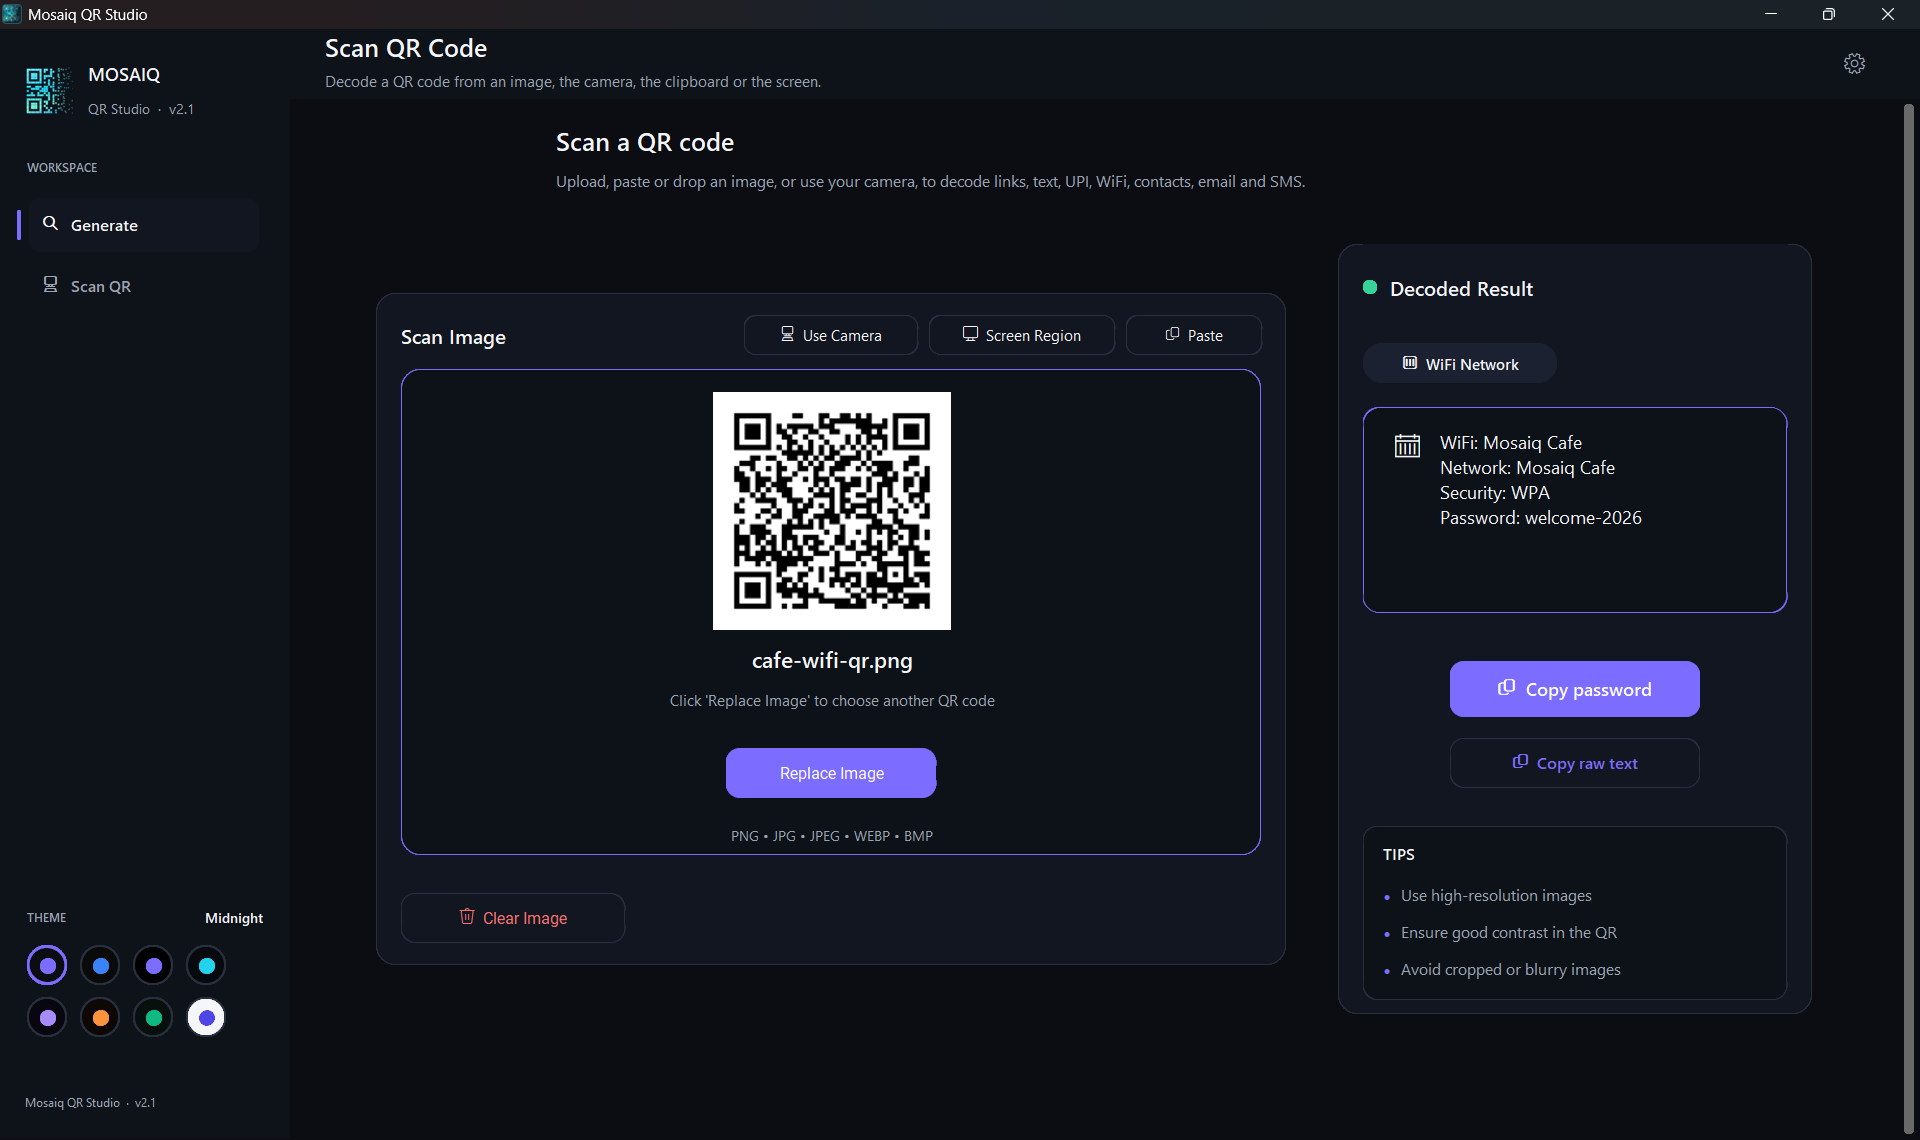
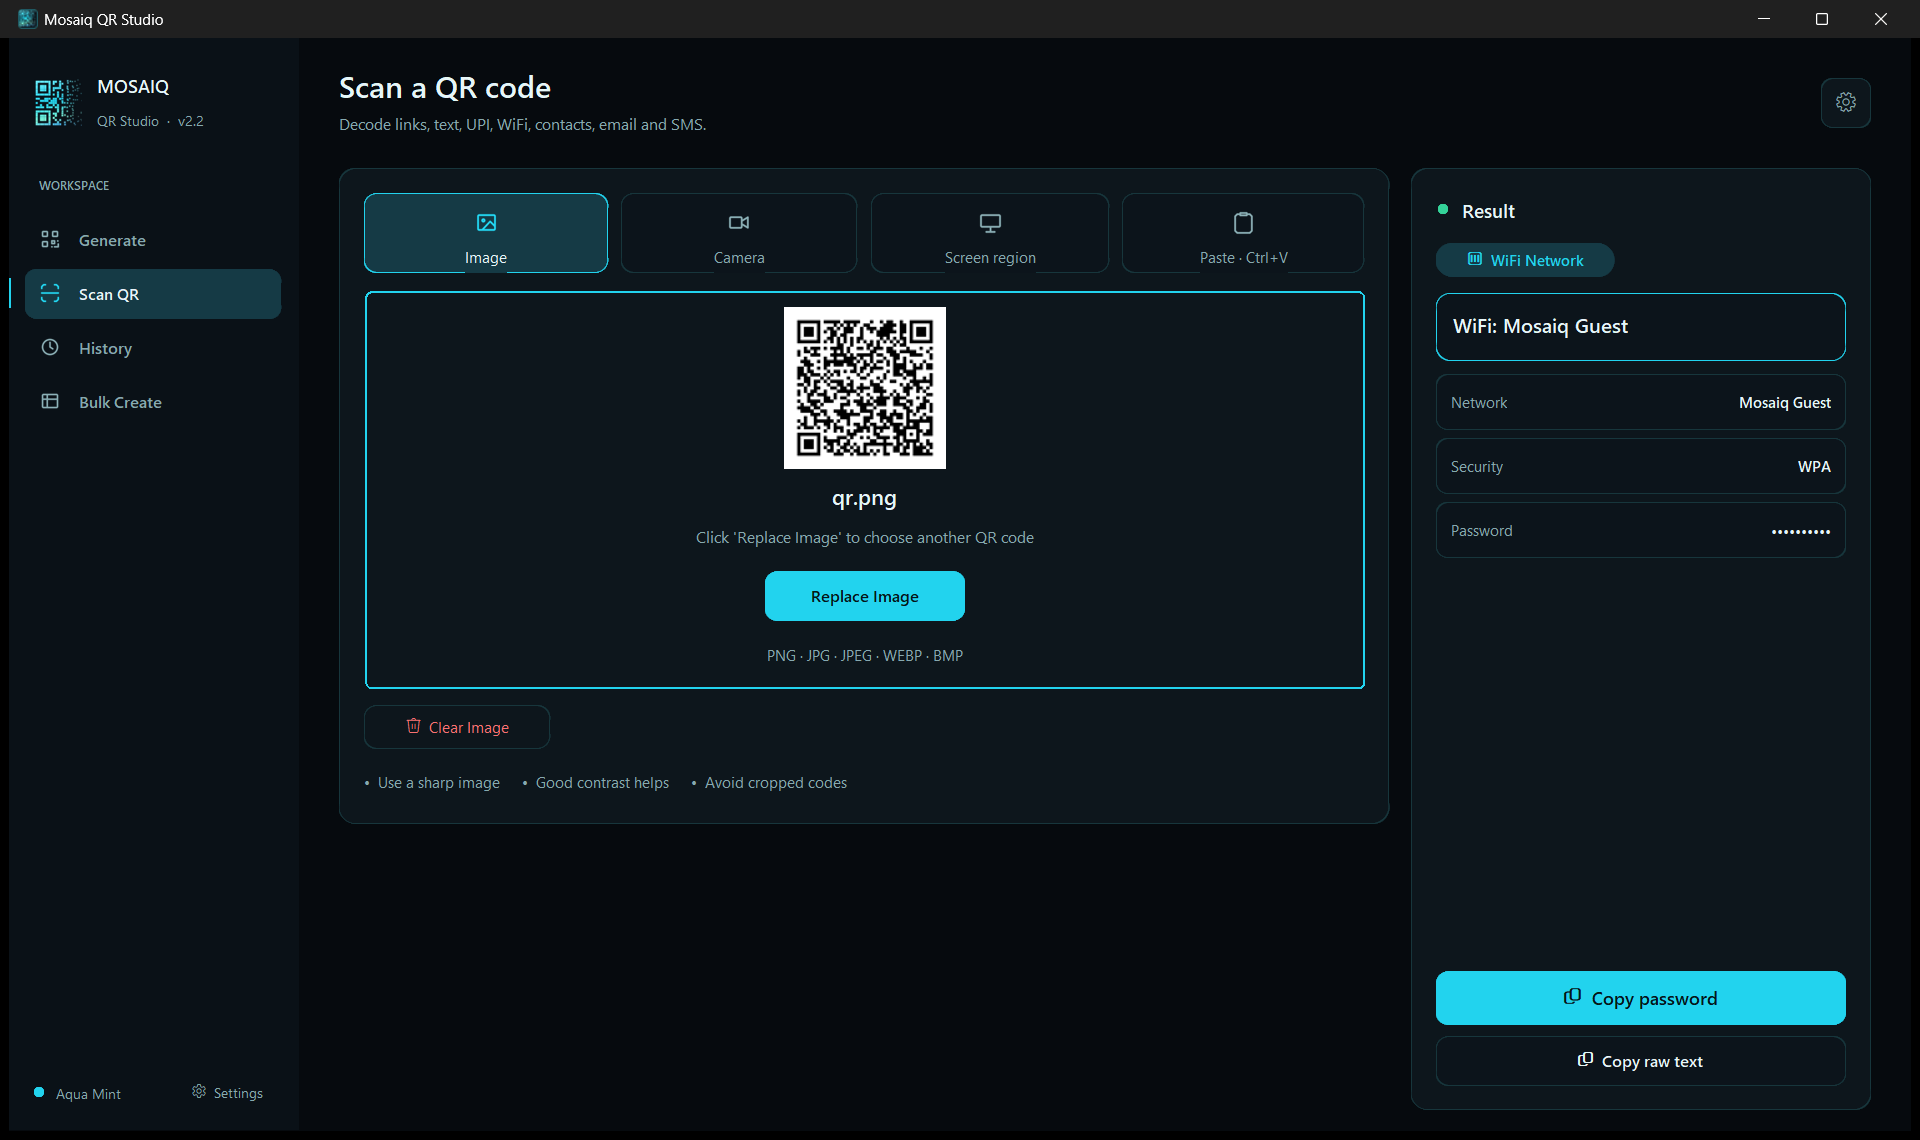
Visual pass against the mockup: header keeps its height so the title and cards have room, version label and package version 2.2.0.0, Bulk table uses the full width, scan picture stays inside the dashed zone (tested), Settings fits the History switches; new Store screenshots (generate, style, scan, h

diff --git a/_store_shots.py b/_store_shots.py
@@ -1,0 +1,167 @@
+"""Store screenshots (1920 x 1140, app window only, sample data only).
+
+Only the app's own windows are captured (PrintWindow, see _window_capture.py), never the
+screen. Each picture runs in its own process with a throw-away APPDATA, so the real user's
+settings and history are never read or changed.
+
+Run:  .venv\\Scripts\\python.exe _store_shots.py <output folder>
+Writes generate.png, style.png, scan.png, history.png, bulk.png, theme_settings.png and
+light_mode.png.
+"""
+import json
+import os
+import subprocess
+import sys
+import tempfile
+import time
+
+os.environ.setdefault("PYTHONUTF8", "1")
+os.environ["QRSTUDIO_NO_SPLASH"] = "1"
+
+WIDTH, HEIGHT = 1920, 1140
+SHOTS = {
+    "generate": "Aqua Mint", "style": "Aqua Mint", "scan": "Aqua Mint", "history": "Aqua Mint",
+    "bulk": "Aqua Mint", "theme_settings": "Aqua Mint", "light_mode": "Daylight",
+}
+
+
+def _settle(root, seconds):
+    end = time.time() + seconds
+    while time.time() < end:
+        root.update()
+        time.sleep(0.02)
+
+
+def _fill_upi(gp):
+    gp.content_card.set_type("UPI Payment")
+    form = gp.content_card.forms["UPI Payment"]
+    form.fill({"upi_id": "sample@examplebank", "payee": "Mosaiq Cafe",
+               "amount": "249.00", "note": "Order #1024"})
+
+
+def _one(name, outdir):
+    import win32gui
+
+    from _window_capture import capture_window
+    from ui.app import QRCodeStudioApp
+    from utils import bulk_csv, history_store, qr_payloads
+    from utils.qr_generator import QRGenerator
+    from utils.qr_render import QRStyle
+
+    app = QRCodeStudioApp()
+    root = app.root
+    root.geometry("1440x900+0+0")
+    root.update()
+    root.deiconify()
+    root.update()
+    hwnd = win32gui.GetParent(root.winfo_id())
+    left, top, _r, _b = win32gui.GetWindowRect(hwnd)
+    win32gui.MoveWindow(hwnd, left, top, WIDTH, HEIGHT, True)    # exact outer size in pixels
+    _settle(root, 0.6)
+
+    gp, sp = app.generate_page, app.scan_page
+    gen = QRGenerator()
+    look = QRStyle(module_shape="dots", eye_shape="rounded", gradient="linear",
+                   fg="#0E7490", fg2="#1E3A8A")
+
+    def save(image=None):
+        _settle(root, 0.5)
+        (image or capture_window(hwnd)).save(os.path.join(outdir, f"{name}.png"))
+
+    def design_and_generate(tab):
+        _fill_upi(gp)
+        gp.design_card.apply_preset("Ocean")
+        gp.design_card.style.set_style(module_shape="dots", eye_shape="rounded")
+        gp.design_card.show_tab(tab)
+        gp.generate_qr()
+        _settle(root, 2.0)                       # the test scan badge is part of the picture
+
+    def sample_history():
+        for text, kind in (("https://example.com/menu", "URL / Text"),
+                           (qr_payloads.build_upi("sample@examplebank", "Mosaiq Cafe", "249.00", "Order 1024"),
+                            "UPI Payment"),
+                           ("mailto:hello@example.com", "Email")):
+            history_store.add_scanned(text, kind, gen.generate(text))
+        history_store.add_generated("URL / Text", "https://example.com/launch",
+                                    {"url": "https://example.com/launch"}, look, None,
+                                    gen.generate("https://example.com/launch", style=look))
+        history_store.add_generated("WiFi", "WIFI:T:WPA;S:Mosaiq Guest;P:sample-pass-123;;",
+                                    {"ssid": "Mosaiq Guest", "password": "sample-pass-123"}, QRStyle())
+        history_store.add_generated("UPI Payment",
+                                    qr_payloads.build_upi("sample@examplebank", "Mosaiq Cafe", "249.00", "Order 1024"),
+                                    {"upi_id": "sample@examplebank", "payee": "Mosaiq Cafe"}, look, None,
+                                    gen.generate(qr_payloads.build_upi("sample@examplebank", "Mosaiq Cafe",
+                                                                       "249.00", "Order 1024"), style=look))
+
+    def scan_sample(text):
+        path = os.path.join(tempfile.mkdtemp(), "qr.png")
+        gen.generate(text).save(path)
+        app.show_scan_page()
+        sp.upload_card.load_path(path)
+        _settle(root, 1.0)
+
+    if name == "generate":
+        design_and_generate("Colours")
+        save()
+    elif name == "style":
+        design_and_generate("Style")
+        save()
+    elif name == "scan":
+        scan_sample(qr_payloads.build_wifi("Mosaiq Guest", "sample-pass-123", "WPA"))
+        save()
+    elif name == "light_mode":
+        scan_sample(qr_payloads.build_upi("sample@examplebank", "Mosaiq Cafe", "249.00", "Order 1024"))
+        save()
+    elif name == "history":
+        sample_history()
+        app.show_history_page()
+        app.history_page.select(history_store.entries()[0]["id"])
+        save()
+    elif name == "bulk":
+        sample = os.path.join(tempfile.mkdtemp(), "mosaiq-bulk-sample.csv")
+        with open(sample, "w", encoding="utf-8", newline="") as fh:
+            fh.write(bulk_csv.SAMPLE_CSV)
+        gp.design_card.apply_preset("Ocean")
+        app.show_bulk_page()
+        app.bulk_page.load_csv(sample)
+        app.bulk_page.folder_entry.insert(0, r"C:\Users\you\Documents\QR codes")
+        app.bulk_page._update_summary()
+        save()
+    elif name == "theme_settings":
+        from PIL import Image, ImageEnhance
+
+        from ui.dialogs.settings_dialog import SettingsDialog
+        design_and_generate("Colours")
+        backdrop = ImageEnhance.Brightness(capture_window(hwnd)).enhance(0.45)
+        dlg = SettingsDialog(app.header)
+        dlg.geometry("+300+40")
+        _settle(root, 1.2)
+        dialog = capture_window(win32gui.GetAncestor(dlg.winfo_id(), 2))
+        canvas = backdrop.copy()
+        canvas.paste(dialog, ((WIDTH - dialog.width) // 2, max(0, (HEIGHT - dialog.height) // 2)))
+        save(canvas)
+        dlg.destroy()
+    app.close()
+
+
+def main():
+    if len(sys.argv) >= 4 and sys.argv[1] == "--one":
+        _one(sys.argv[2], sys.argv[3])
+        return
+
+    outdir = os.path.abspath(sys.argv[1])
+    os.makedirs(outdir, exist_ok=True)
+    for name, theme in SHOTS.items():
+        with tempfile.TemporaryDirectory() as appdata:
+            folder = os.path.join(appdata, "QR Code Studio")
+            os.makedirs(folder)
+            with open(os.path.join(folder, "settings.json"), "w", encoding="utf-8") as fh:
+                json.dump({"theme": theme, "splash_enabled": False}, fh)
+            env = dict(os.environ, APPDATA=appdata)
+            subprocess.run([sys.executable, os.path.abspath(__file__), "--one", name, outdir],
+                           env=env, check=True, timeout=180)
+        print("shot", name)
+
+
+if __name__ == "__main__":
+    main()

diff --git a/_smoke_test.py b/_smoke_test.py
@@ -383,7 +383,7 @@ def _run():
     import xml.etree.ElementTree as ET
     import config
     ident = json.load(open(os.path.join("packaging", "msix", "identity.json"), encoding="utf-8"))
-    if ident["Version"] != "2.1.0.0" or config.APP_VERSION != "v2.1":
+    if ident["Version"] != "2.2.0.0" or config.APP_VERSION != "v2.2":
         problems.append(f"version mismatch: identity {ident['Version']} / config {config.APP_VERSION}")
     manifest_text = open(os.path.join("packaging", "msix", "AppxManifest.xml.in"), encoding="utf-8").read()
     for key in ("IdentityName", "Publisher", "PublisherDisplayName", "DisplayName", "Version"):
@@ -393,8 +393,8 @@ def _run():
     caps = {c.get("Name") for c in manifest.findall("m:Capabilities/m:DeviceCapability", ns)}
     if caps != {"webcam"}:
         problems.append(f"manifest DeviceCapability should be exactly webcam, got {caps}")
-    if manifest.find("m:Identity", ns).get("Version") != "2.1.0.0":
-        problems.append("manifest identity version is not 2.1.0.0")
+    if manifest.find("m:Identity", ns).get("Version") != "2.2.0.0":
+        problems.append("manifest identity version is not 2.2.0.0")
 
     # --- Settings dialog opens and closes cleanly ---
     from ui.dialogs.settings_dialog import SettingsDialog

diff --git a/ui/pages/bulk_page.py b/ui/pages/bulk_page.py
@@ -85,7 +85,7 @@ class BulkPage(TwoColumnPage):
                                                command=lambda _v: self._update_summary())
         self.format_selector.set("PNG")
         self.format_selector.pack(anchor="w", pady=(4, 12))
-        self.style_label = ctk.CTkLabel(out, text="", anchor="w", justify="left", wraplength=560,
+        self.style_label = ctk.CTkLabel(out, text="", anchor="w", justify="left", wraplength=820,
                                         font=("Segoe UI", 12), text_color=theme["text_secondary"])
         self.style_label.pack(fill="x")
 
@@ -216,7 +216,7 @@ class BulkPage(TwoColumnPage):
                     self.table, text=text, anchor="w", justify="left", font=("Segoe UI", 12),
                     text_color=color if column == 4 else theme["text"],
                     width=COLUMNS[column][1], wraplength=230 if column == 4 else 0)
-                label.grid(row=index, column=column, sticky="w",
+                label.grid(row=index, column=column, sticky="ew" if column == 3 else "w",
                            padx=(12 if column == 0 else 4, 4), pady=2)
         if not visible:
             ctk.CTkLabel(self.table, text="No rows with errors.", font=("Segoe UI", 12),

diff --git a/_scan_ui_test.py b/_scan_ui_test.py
@@ -82,6 +82,13 @@ def main():
     check("zone shows the file name", uc.title_label.cget("text") == "sample.png",
           uc.title_label.cget("text"))
     check("zone is solid with an image", uc.upload_frame._solid is True)
+    zone = uc.upload_frame
+    inner = zone.inner
+    check("picture, name and button stay inside the zone's outline (do not cover it)",
+          inner.winfo_rooty() > zone.winfo_rooty() + 3
+          and inner.winfo_rooty() + inner.winfo_height() < zone.winfo_rooty() + zone.winfo_height() - 3,
+          f"content {inner.winfo_rooty()}..{inner.winfo_rooty() + inner.winfo_height()}, "
+          f"zone {zone.winfo_rooty()}..{zone.winfo_rooty() + zone.winfo_height()}")
     uc.clear()
     rc.clear()
     check("zone is dashed again after Clear", uc.upload_frame._solid is False)

diff --git a/ui/header.py b/ui/header.py
@@ -12,7 +12,7 @@ class Header(ctk.CTkFrame):
     ``set_title`` is driven by the active page.
     """
 
-    HEIGHT = 12 * GRID
+    HEIGHT = 13 * GRID
 
     def __init__(self, parent):
         theme = ThemeManager.get_theme()
@@ -24,7 +24,7 @@ class Header(ctk.CTkFrame):
             fg_color=theme["background"],
         )
 
-        self.pack_propagate(False)
+        self.grid_propagate(False)           # children are gridded: keep the height asked for
 
         self._title_label = None
         self._subtitle_label = None

diff --git a/_theme_shots.py b/_theme_shots.py
@@ -42,6 +42,10 @@ def _one(theme, outdir):
     gp.content_card.url_entry.delete(0, "end")
     gp.content_card.url_entry.insert(0, SAMPLE_URL)
     gp.generate_qr()
+    end = time.time() + 2.0                     # let the test scan finish: the badge is part of the picture
+    while time.time() < end:
+        root.update()
+        time.sleep(0.02)
     shot("generate")
 
     app.show_scan_page()

diff --git a/ui/dialogs/settings_dialog.py b/ui/dialogs/settings_dialog.py
@@ -28,7 +28,7 @@ class SettingsDialog(ctk.CTkToplevel):
 
         self.title("Settings")
         apply_window_icon(self)
-        height = min(900, max(520, self.winfo_screenheight() - 140))
+        height = min(990, max(520, self.winfo_screenheight() - 140))
         self.geometry(f"760x{height}")
         self.resizable(False, False)
 

diff --git a/ui/components/scan_upload_card.py b/ui/components/scan_upload_card.py
@@ -361,7 +361,7 @@ class ScanUploadCard(Card):
 
         if image is not None:
 
-            image.thumbnail((170, 170))
+            image.thumbnail((130, 130))      # small enough that the picture, name and button stay inside the dashed zone
 
             self.preview_image = ctk.CTkImage(
                 light_image=image,

diff --git a/config.py b/config.py
@@ -4,7 +4,7 @@
 
 APP_NAME = "Mosaiq QR Studio"
 APP_SHORT_NAME = "Mosaiq"         # where space is tight (sidebar brand)
-APP_VERSION = "v2.1"
+APP_VERSION = "v2.2"
 
 # Settings folder under %APPDATA%. Keeps the pre-rebrand name on purpose so
 # existing installs keep their saved theme / intro preference.

diff --git a/README.md b/README.md
@@ -42,11 +42,15 @@ Formerly *QR Code Studio v2*. Coming to the Microsoft Store.
 
 ## Screenshots
 
-| Generate | Scan |
+| Generate | Style |
 |---|---|
-| ![Generate a QR code](assets/images/generate.png) | ![Scan a QR code](assets/images/scan.png) |
-| **Themes** | **Light mode** |
-| ![Theme gallery](assets/images/theme_settings.png) | ![Daylight theme](assets/images/light_mode.png) |
+| ![Generate a QR code](assets/images/generate.png) | ![Style a QR code](assets/images/style.png) |
+| **Scan** | **History** |
+| ![Scan a QR code](assets/images/scan.png) | ![History](assets/images/history.png) |
+| **Bulk Create** | **Settings and themes** |
+| ![Bulk Create](assets/images/bulk.png) | ![Theme gallery](assets/images/theme_settings.png) |
+| **Light mode** | |
+| ![Daylight theme](assets/images/light_mode.png) | |
 
 ## Run from source
 
@@ -83,6 +87,8 @@ Run from the repository root with the venv's Python. `.\.venv\Scripts\python.exe
 | `_dnd_test.py` | drag and drop fallback, and real OLE drops (needs `tkinterdnd2`) |
 | `_cv2_missing_test.py` | OpenCV loads lazily; if it cannot load (Windows N without the Media Feature Pack) the app starts, Generate works, Scan/Camera show a clear message and the cause is logged |
 | `_frozen_exe_test.py` | the built exe: PerMonitorV2 DPI awareness, real Screen Region scan at the PC's display scaling, clean exit (build first) |
+
+Screenshots are made by two tools that capture only the app's own window (never the screen) with throw-away settings: `_theme_shots.py <folder>` (Generate, Scan, History, Bulk Create, Settings and the colour picker in every theme) and `_store_shots.py <folder>` (the 1920 x 1140 Store pictures in `assets/images`).
 
 ## Build
 
